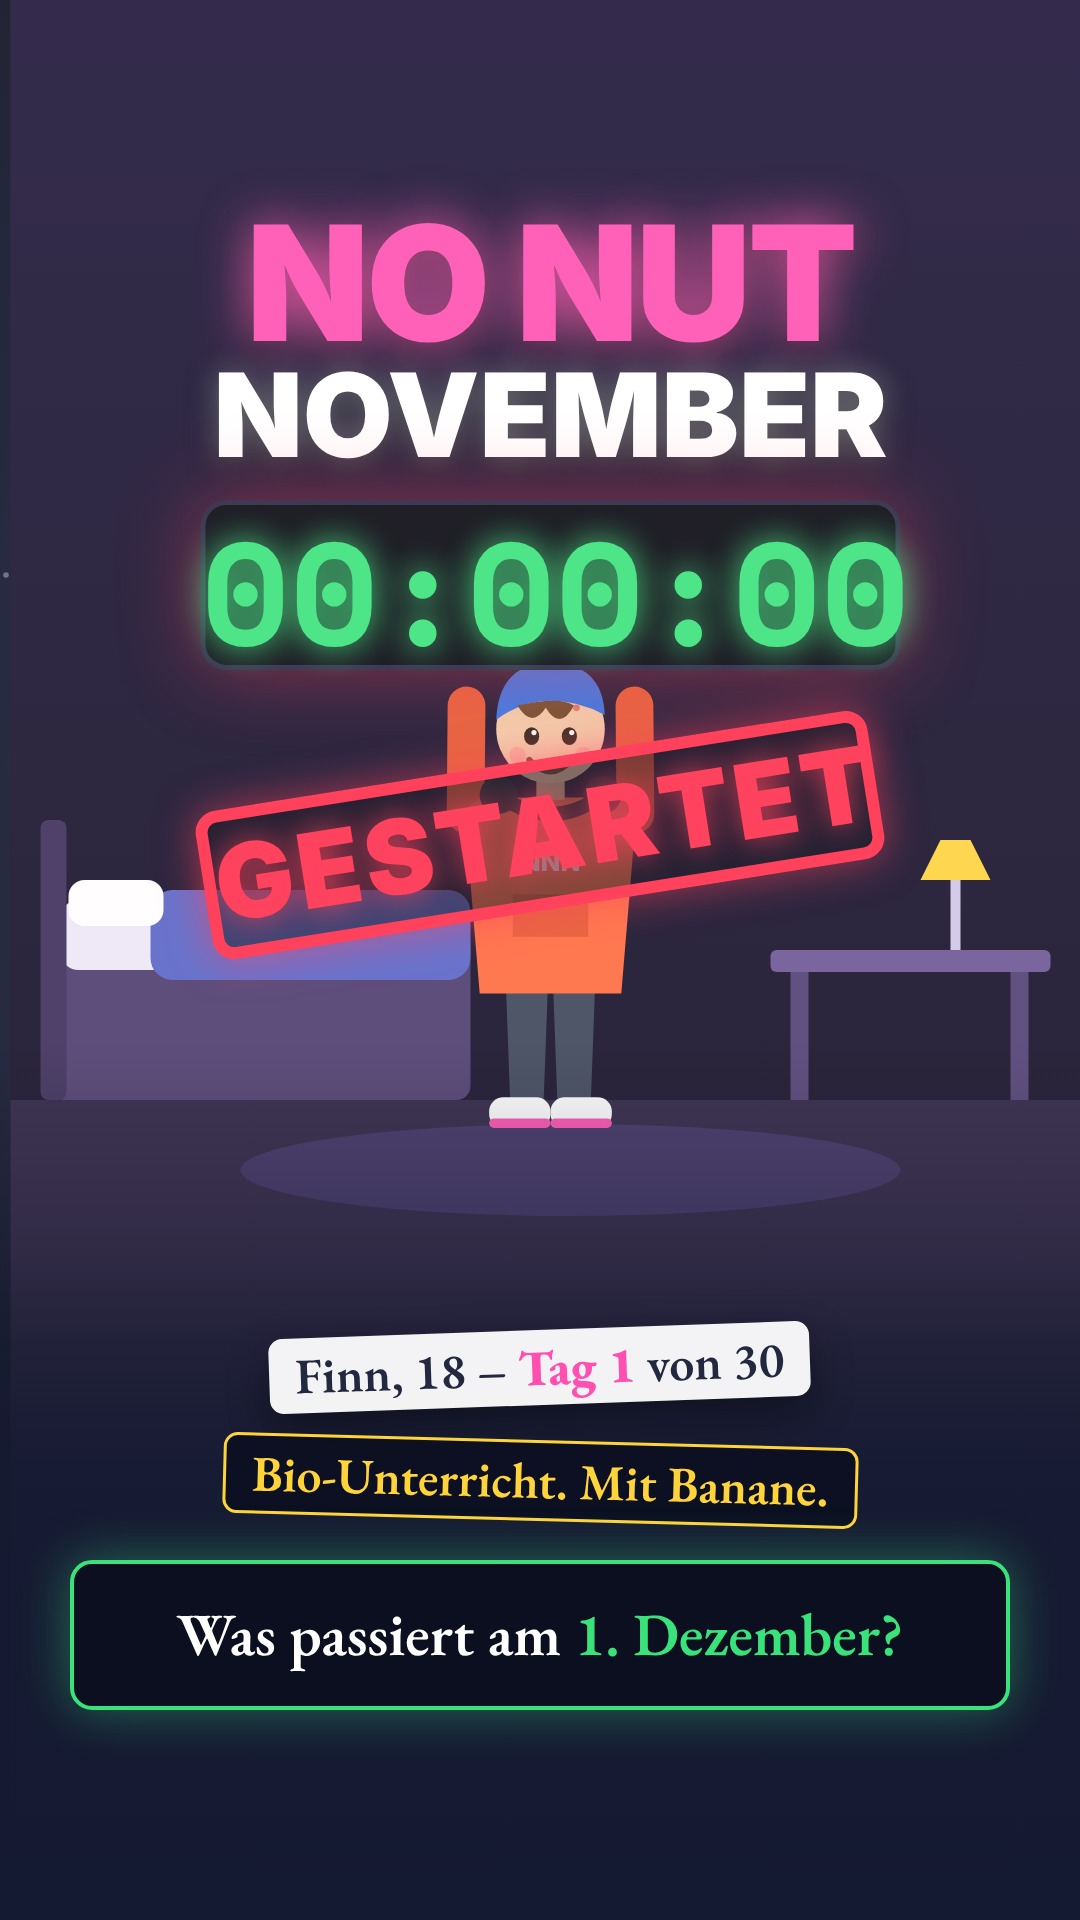
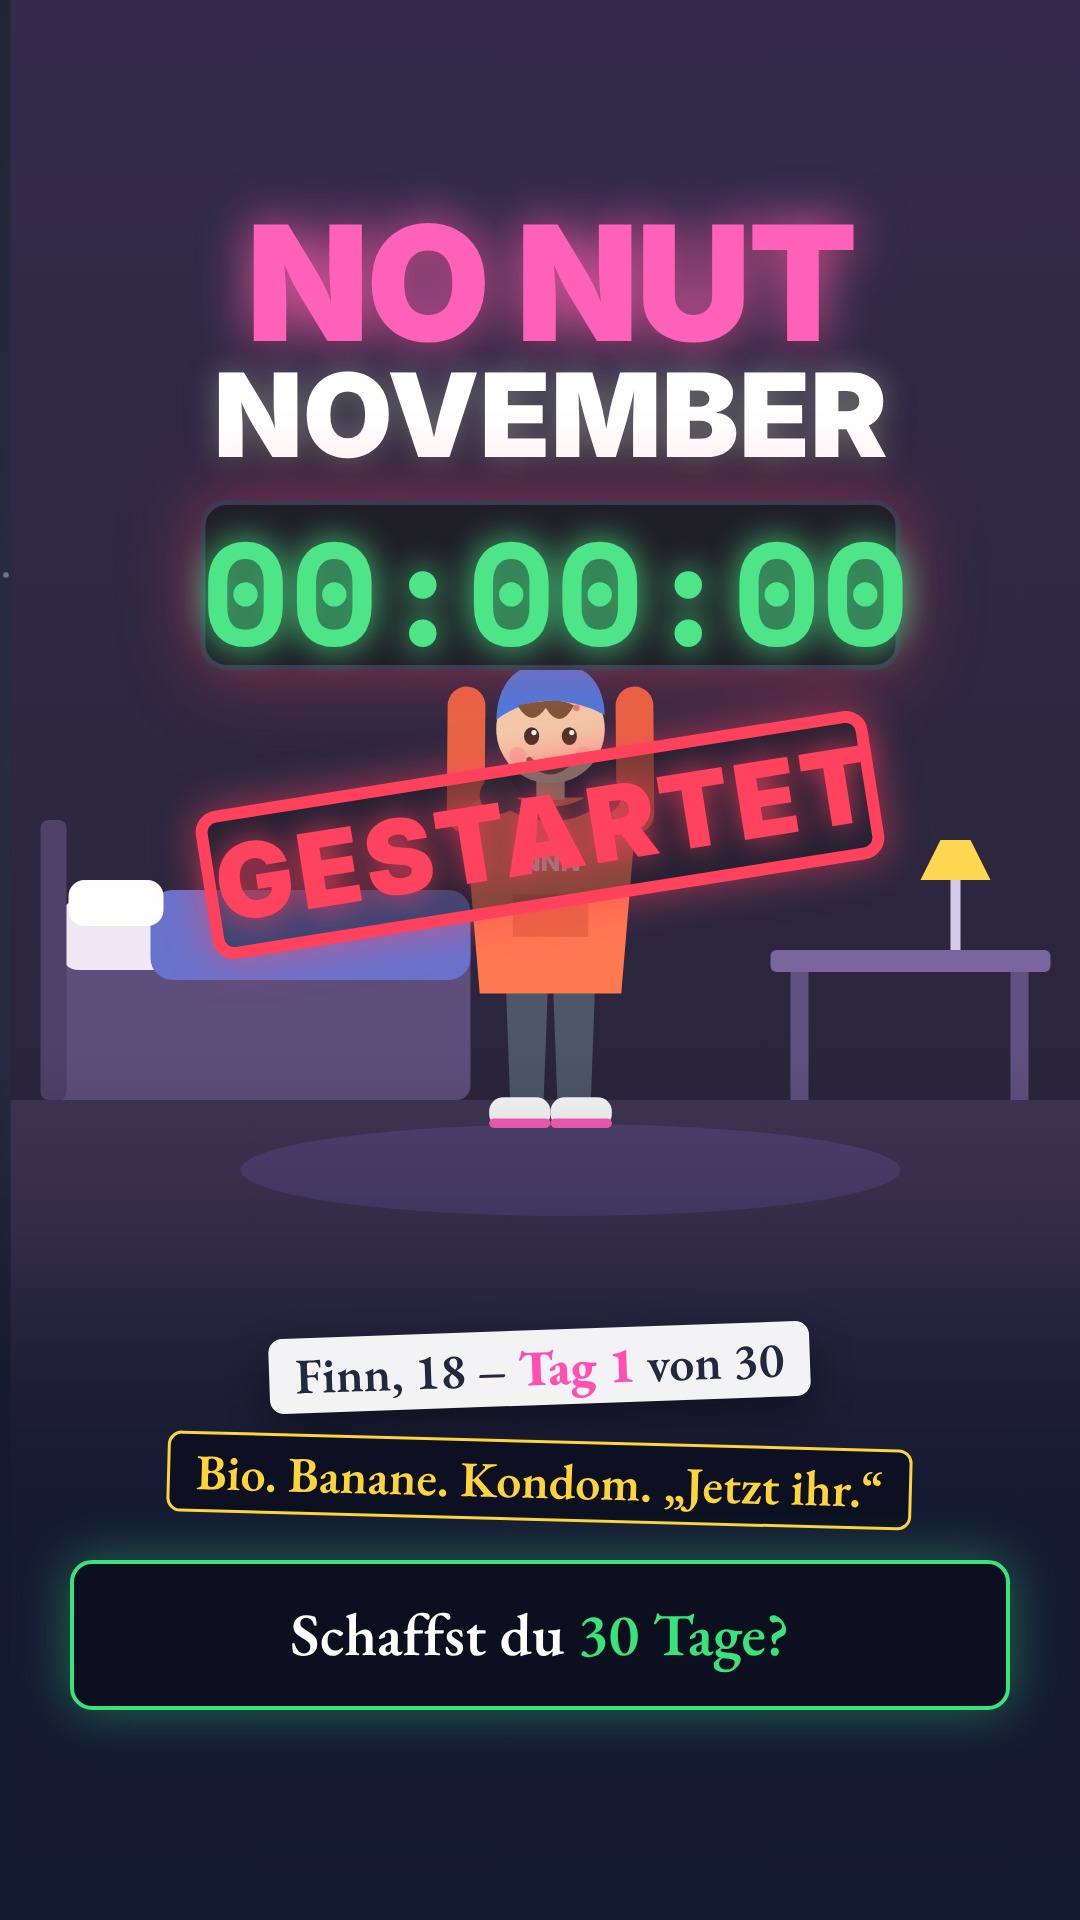
No Nut November: Cover und Beschreibung aktualisiert
Claude-Session: https://claude.ai/code/session_01McNdgXtFA3X1Q1fLpDn8nE

Changed region(s): [[0.1528, 0.7188, 0.8556, 0.8125], [0.1528, 0.8438, 0.825, 0.875]]

diff --git a/videos/no-nut-november/cover/index.html b/videos/no-nut-november/cover/index.html
@@ -23,8 +23,8 @@
     <div id="root" data-composition-id="cover" data-start="0" data-duration="1" data-width="1080" data-height="1920" data-no-timeline>
       <div id="shade" class="abs"></div>
             <div id="c1" class="abs chip">Finn, 18 – <b>Tag 1</b> von 30</div>
-      <div id="c2" class="abs chip">Bio-Unterricht. Mit Banane.</div>
-      <div id="q" class="abs">Was passiert am <span>1. Dezember?</span></div>
+      <div id="c2" class="abs chip">Bio. Banane. Kondom. „Jetzt ihr.“</div>
+      <div id="q" class="abs">Schaffst du <span>30 Tage?</span></div>
     </div>
   </body>
 </html>

diff --git a/videos/no-nut-november/BESCHREIBUNG.md b/videos/no-nut-november/BESCHREIBUNG.md
@@ -1,32 +1,35 @@
 # Beschreibung – No Nut November: Tag 1 hat begonnen
 
 ## Hauptversion (empfohlen)
-No Nut November – HEUTE ist Tag 1 ⏰ Finn, 18, hat um Mitternacht gestartet … dann kommt Bio-Unterricht mit Banane 🍌 und um 2 Uhr nachts schickt sein Crush zwei Snaps 💀 Bist du dabei oder schon raus? 👇
+No Nut November – HEUTE ist Tag 1 ⏰ Finn, 18, startet um Mitternacht … dann Bio-Unterricht mit Banane 🍌 und um 2 Uhr nachts schickt sein Crush zwei Snaps 💀 Wer 30 Tage schafft, ist ein Alpha. Dabei oder schon raus? 👇
 #nonutnovember #nnn #challenge #november #fyp
 
 ## Alternative 1 (Bio-Hook vorne)
-Tag 4 No Nut November: Die Lehrerin holt eine Banane raus. Und ein Kondom. „Jetzt ihr.“ 🍌😭 Finn hat 20 Minuten auf den Boden gestarrt. Dabei oder schon raus? 👇
-#nonutnovember #nnn #schule #challenge #fyp
+Tag 4 No Nut November: Die Lehrerin holt eine Banane raus. Und ein Kondom. „Jetzt ihr.“ 🍌😭 Finns Puls: 180. Würdest du das überleben? Dabei oder schon raus? 👇
+#nonutnovember #nnn #schule #storytime #fyp
 
 ## Alternative 2 (Crush-Hook vorne)
-2 Uhr nachts, Tag 13: Dein Crush schickt dir zwei Snaps. Einfach so. Alarmstufe ROT 🚨 Würdest du den No Nut November überleben? Schreib „Dabei“ oder „Schon raus“ 👇
+2 Uhr nachts, Tag 13: Dein Crush schickt dir zwei Snaps. Einfach so. Alarmstufe ROT 🚨 Hältst du den No Nut November durch? Schreib „Dabei“ oder „Schon raus“ 👇
 #nonutnovember #nnn #crush #storytime #fyp
 
-## Alternative 3 (Fakt vorne)
-Tag 7 No Nut November: Testosteron auf 145 % 📈 Superkräfte? Leider nein. Was am 1. Dezember wirklich passiert, erzählt dir keiner ehrlich 👀 Dabei oder schon raus? 👇
-#nonutnovember #nnn #wissen #challenge #fyp
+## Alternative 3 (Alpha-Hook)
+30 Tage kein Dödel-Donner ⚡ Kein Sixpack, keine Aura – aber am 1. Dezember bist du ein Alpha 👑 Finn, 18, zieht's durch. Und du? Dabei oder schon raus? 👇
+#nonutnovember #nnn #alpha #challenge #fyp
 
 ## Angepinnter Kommentar
-Ehrliche Umfrage, heute ist Tag 1 👀 💪 DABEI oder 💀 SCHON RAUS? Nur ein Wort 👇 (Finns Update kommt am 1. Dezember 😏)
+Ehrliche Umfrage, heute ist Tag 1 👀 💪 DABEI oder 💀 SCHON RAUS? Nur ein Wort 👇 Wer bis 1. Dezember durchhält, kriegt ein Update von Finn 👑
 
-## Antwort-Vorlage für Kommentare
-„Fakt: Der Testosteron-Peak an Tag 7 ist echt (Studie 2003) – danach ist er wieder normal. Und den Jürgen würgen ist laut Ärzten völlig normal. Hier geht's um Disziplin 💪“
+## Antwort-Vorlagen für Kommentare
+- „Tag 7 ist echt: Testosteron kurz auf ~145 % (Studie 2003) – danach wieder normal. Sixpack musst du dir trotzdem selbst holen 😅“
+- „Den Jürgen würgen ist laut Ärzten völlig normal – hier geht's nur um Disziplin 💪“
+- „Schon raus? Kein Ding, morgen ist ein neuer Tag 1 😏“
 
 ## Posting-Tipps
 - Heute posten (1.11.), am besten 17–20 Uhr – „heute ist Tag 1“ passt nur heute.
-- Cover: `renders/cover.jpg` als Titelbild.
+- Cover: `renders/cover.jpg` als Titelbild (Mitternacht + GESTARTET-Stempel, alles im 3:4-Bereich).
 - Trend-Sound leise darunter (10–20 %).
-- Am 1. Dezember ein Update-Video („Finn hat's geschafft … oder?“) nachschieben.
+- Umfrage-Kommentar sofort anpinnen und in der ersten Stunde viele „Dabei/Schon raus“-Antworten liken und beantworten.
+- Am 13.11. (Gefahrenzone) und am 1.12. (Update „Finn hat's geschafft … oder?“) nachlegen.
 
 ---
 Fakten: Jiang et al. (2003): Testosteron-Spitze am 7. Abstinenztag ~145,7 % des Ausgangswerts, danach Rückkehr auf Normalniveau. Selbstbefriedigung gilt medizinisch als normal und gesund; behauptete „Superkräfte“ sind nicht belegt.
